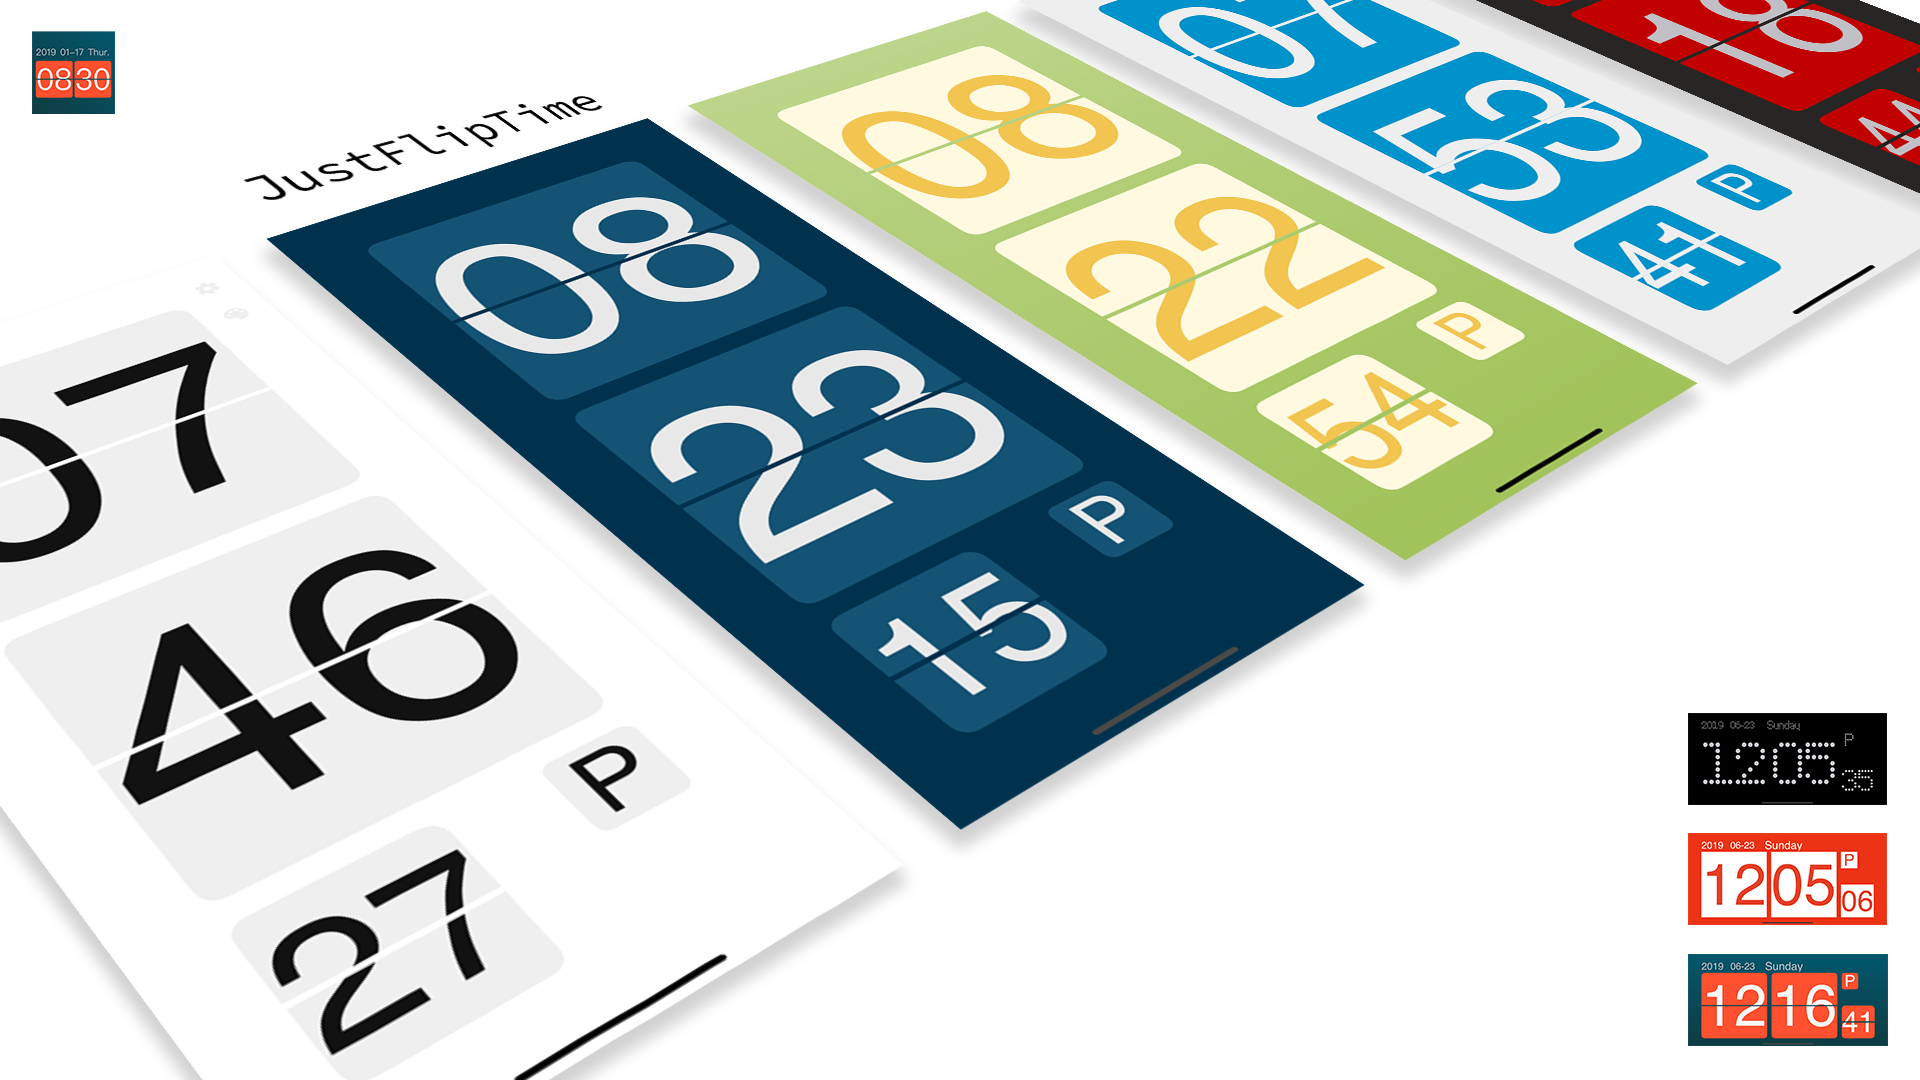
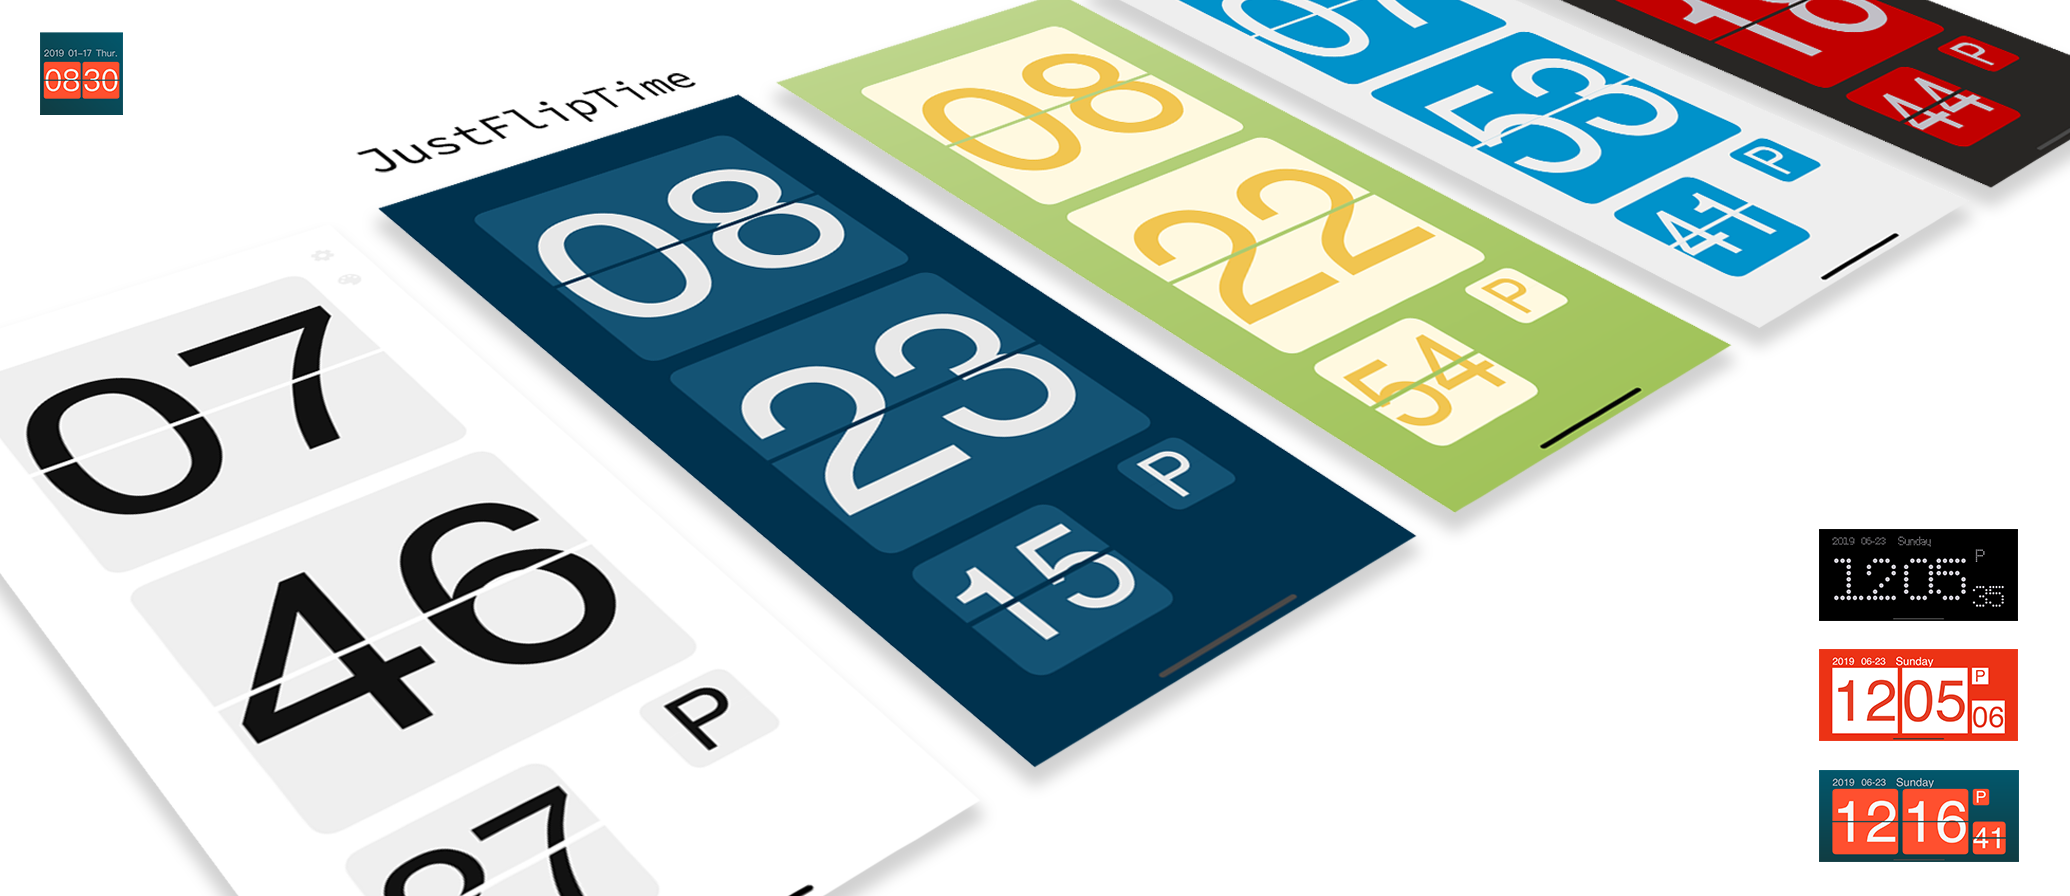
Feat: 添加 iPad 说明，图片

diff --git a/source/_posts/JustFlipTime.md b/source/_posts/JustFlipTime.md
@@ -7,9 +7,10 @@ tags:
 cover: /img/JustFlipTime/JustFlipTime.png
 ---
 
-# 简单纯粹的翻页时钟，充分利用你的旧手机
+# 简单纯粹的翻页时钟，充分利用你的旧手机和旧 iPad
 
 ![01](/img/JustFlipTime/JustFlipTime.png)
+![02](/img/JustFlipTime/JustFlipTime_IPad.png)
 
 ## 简单
 
